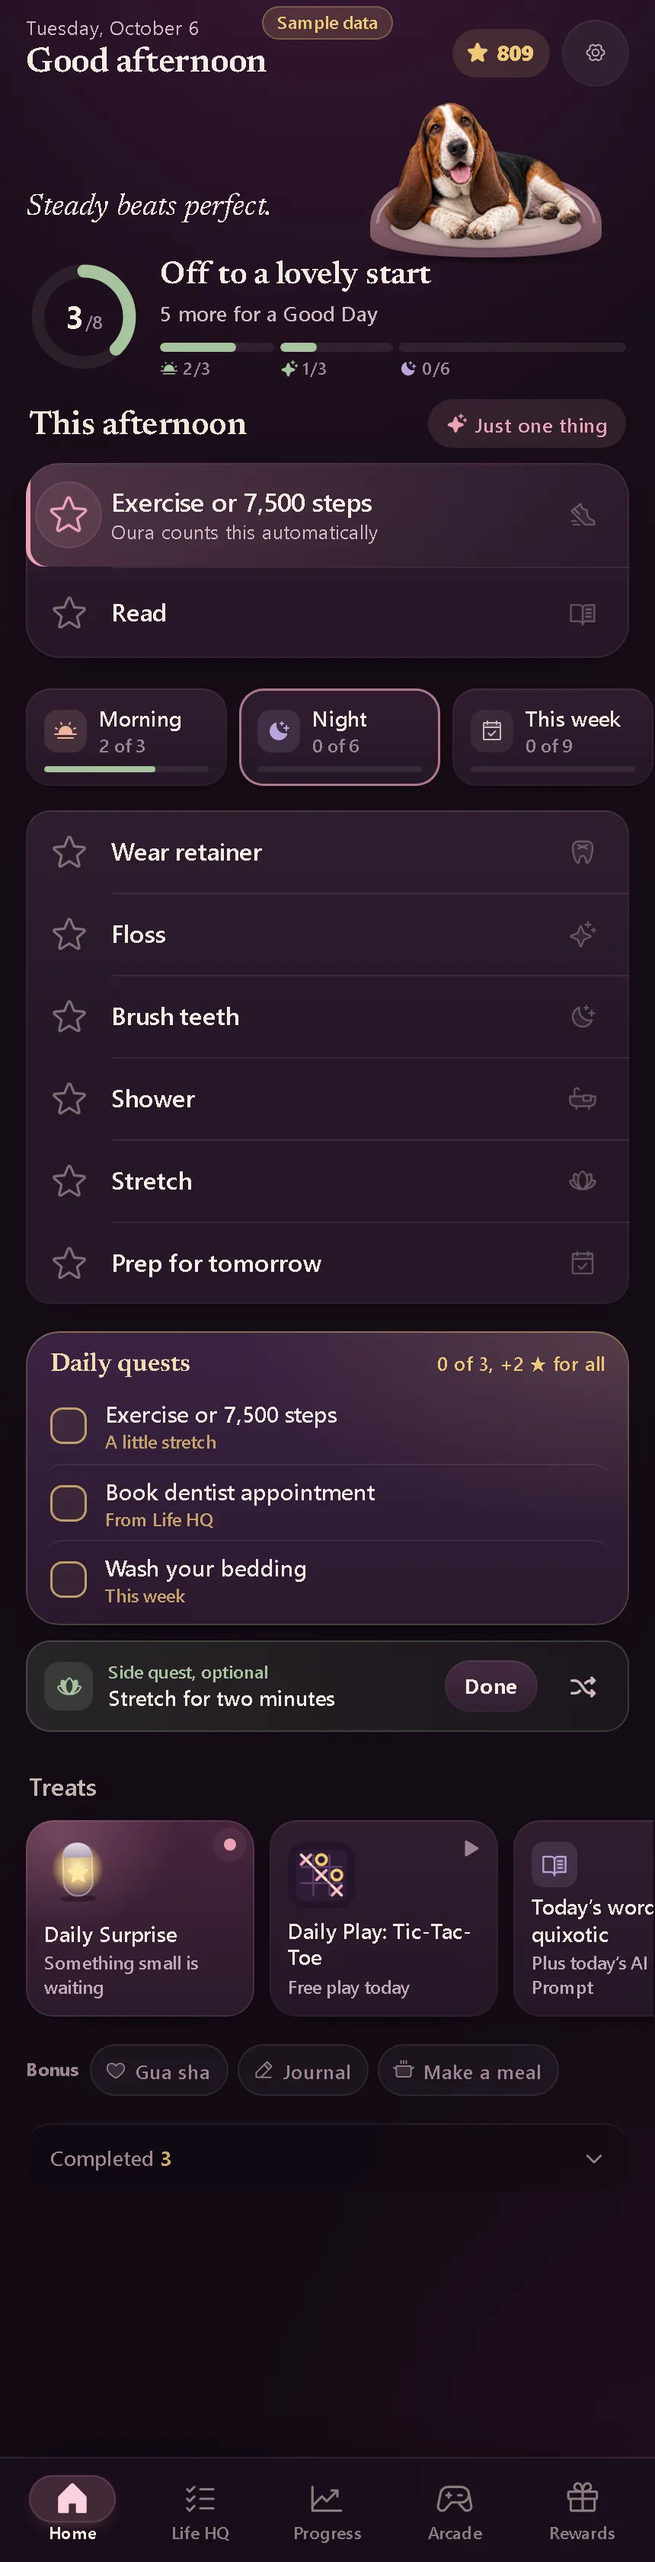
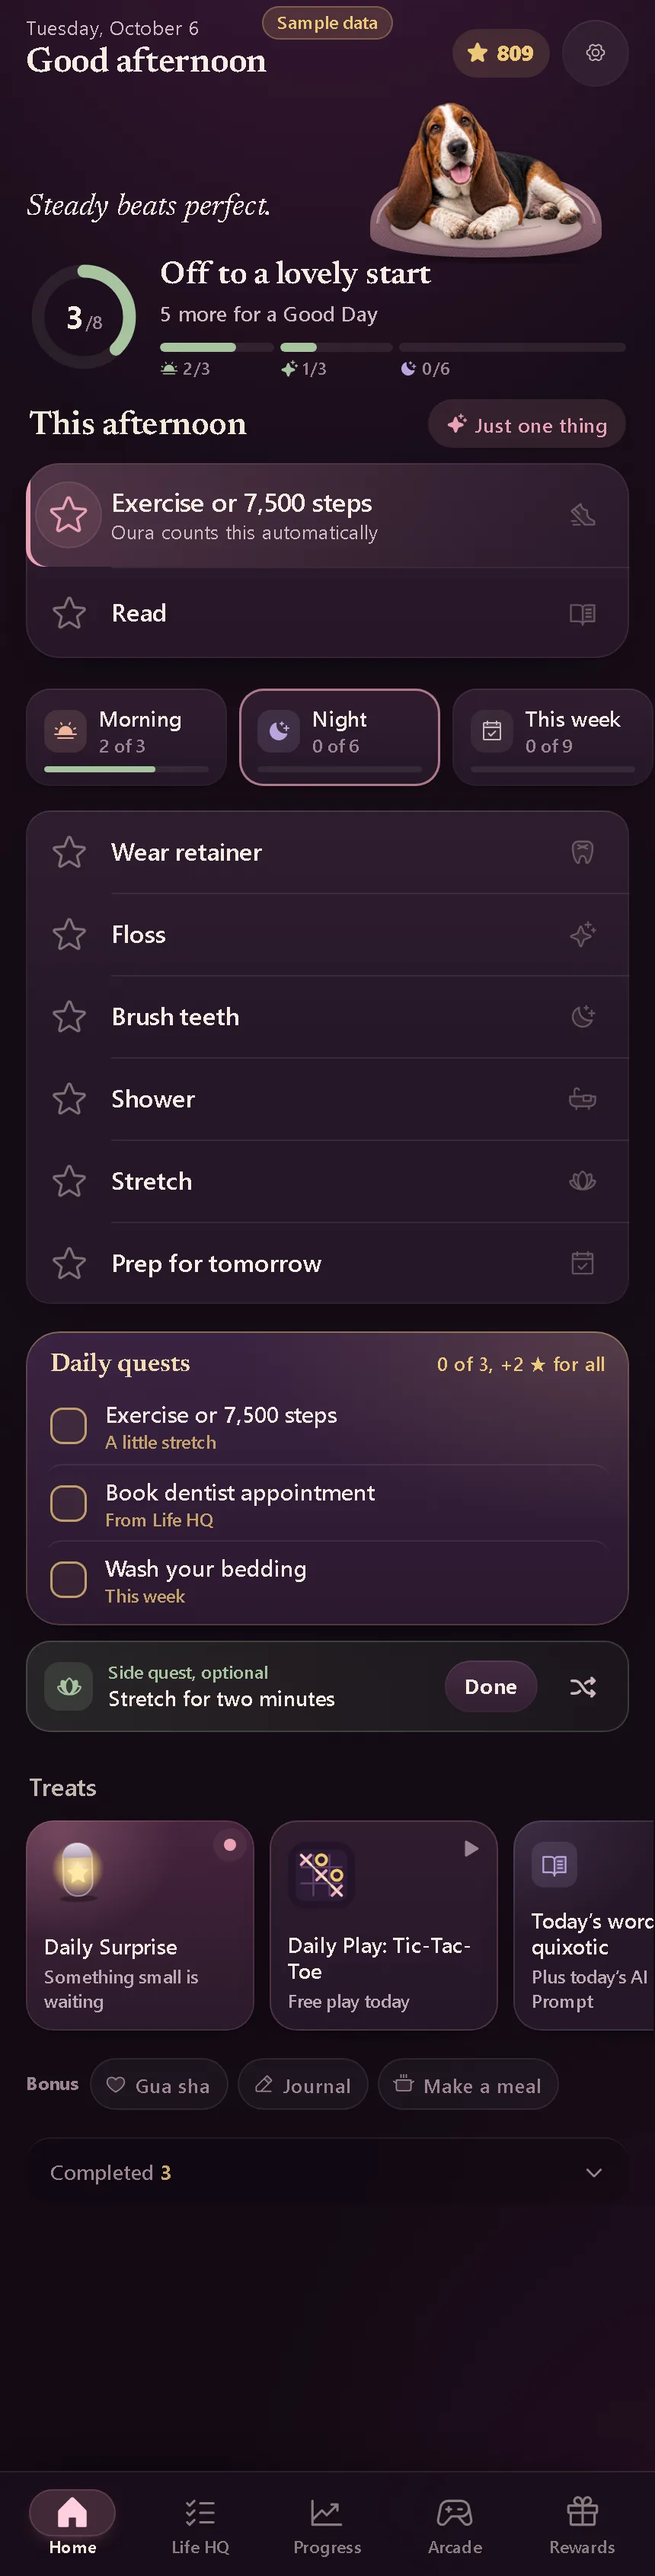
Demo snapshot from starcade@d25c363

diff --git a/review/index.html b/review/index.html
@@ -4,7 +4,7 @@ ul.grid{list-style:none;padding:0;display:grid;grid-template-columns:repeat(auto
 ul.grid img{display:block;width:100%;height:auto;aspect-ratio:430/932;object-fit:cover;object-position:top;border-radius:10px;background:#261727}
 figure{margin:0}figure img{display:block;max-width:430px;width:100%;height:auto;border-radius:12px;background:#261727}pre{white-space:pre-wrap;background:#261727;padding:12px 14px;border-radius:10px;color:#CFB9C1;font:14px/1.45 system-ui,sans-serif}
 nav.pn{display:flex;justify-content:space-between;gap:12px;margin:14px 0}dl{display:grid;grid-template-columns:max-content 1fr;gap:4px 14px;margin:0 0 16px;color:#CFB9C1}dt{color:#9C8492}</style></head><body><main><h1>Starcade demo · visual review</h1>
-<p class="meta">Read-only, pre-rendered snapshots of every major screen and state of Starcade, generated automatically from the live demo build with sample data only (no real user data). Viewport 430×932 (large iPhone), device scale 2. 65 screens and states. Generated 2026-10-06 19:02 UTC. This page needs no JavaScript. The interactive demo itself is at <a href="../">the demo home</a>.</p>
+<p class="meta">Read-only, pre-rendered snapshots of every major screen and state of Starcade, generated automatically from the live demo build with sample data only (no real user data). Viewport 430×932 (large iPhone), device scale 2. 65 screens and states. Generated 2026-10-06 19:11 UTC. This page needs no JavaScript. The interactive demo itself is at <a href="../">the demo home</a>.</p>
 <p>Overview of everything at once: <a href="img/00-contact-sheet.webp">contact sheet image</a>.</p>
 <p><img src="img/00-contact-sheet.webp" alt="Contact sheet: the first screen of all 65 Starcade screens and states side by side" style="max-width:100%;height:auto;border-radius:10px"></p>
 <h2>Home</h2><ul class="grid"><li><a href="01-home.html"><img src="img/01-home.webp" alt="Home · Today (afternoon, Dexter relaxed in his bed)" loading="lazy" width="430" height="932"><span>Home · Today (afternoon, Dexter relaxed in his bed)</span></a></li><li><a href="02-home-routine-pill-open.html"><img src="img/02-home-routine-pill-open.webp" alt="Home · a routine pill opened in place (Night)" loading="lazy" width="430" height="932"><span>Home · a routine pill opened in place (Night)</span></a></li><li><a href="03-home-week-pill-open.html"><img src="img/03-home-week-pill-open.webp" alt="Home · This week pill opened (weekly reset)" loading="lazy" width="430" height="932"><span>Home · This week pill opened (weekly reset)</span></a></li><li><a href="04-home-completed-expanded.html"><img src="img/04-home-completed-expanded.webp" alt="Home · Completed habits expanded" loading="lazy" width="430" height="932"><span>Home · Completed habits expanded</span></a></li><li><a href="05-home-quick-actions.html"><img src="img/05-home-quick-actions.webp" alt="Home · press and hold a habit: quick actions (skip, rest, partly, note)" loading="lazy" width="430" height="932"><span>Home · press and hold a habit: quick actions (skip, rest, partly, note)</span></a></li><li><a href="06-home-just-one-thing.html"><img src="img/06-home-just-one-thing.webp" alt="Home · Just one thing (pick for me)" loading="lazy" width="430" height="932"><span>Home · Just one thing (pick for me)</span></a></li><li><a href="07-daily-surprise-closed.html"><img src="img/07-daily-surprise-closed.webp" alt="Daily Surprise · the gift before opening" loading="lazy" width="430" height="932"><span>Daily Surprise · the gift before opening</span></a></li><li><a href="08-daily-surprise-opened.html"><img src="img/08-daily-surprise-opened.webp" alt="Daily Surprise · revealed" loading="lazy" width="430" height="932"><span>Daily Surprise · revealed</span></a></li></ul>

diff --git a/index.html b/index.html
@@ -7285,6 +7285,15 @@ button.lf-check{padding:0!important;width:24px!important;height:24px!important;m
 /* ===================== Pass 38 (Claude): Learn joins Brain's lavender; Rewards History is a record, not an action ===================== */
 .ln-word,.ln-ai{box-shadow:inset 0 0 0 1px rgb(var(--ds-lav-rgb) / .22),inset 0 1px 0 rgb(var(--ds-lav-rgb) / .2),var(--ds-card-shadow)!important}
 .ln-word{background:radial-gradient(110% 80% at 100% 0%,rgb(var(--ds-lav-rgb) / .14),transparent 60%),var(--ds-surface)!important}
+
+/* ===================== Pass 40 (Claude): treats read as objects, each in its own meaning ===================== */
+.tr-mini{display:grid;grid-template-columns:repeat(5,9px);gap:3px;padding:7px;border-radius:10px;background:rgb(0 0 0 / .22);box-shadow:inset 0 0 0 1px rgb(var(--ds-gold-rgb) / .14);width:max-content}
+.tr-mini i{width:9px;height:9px;border-radius:2.5px;background:rgb(var(--ds-text-rgb) / .1)}
+.tr-mini i.on,.tr-mini i.free{background:var(--ds-gold)}
+.tr-mini i.gold{box-shadow:0 0 0 1.5px var(--ds-gold)}
+.td-treat.tr-bingo{background:radial-gradient(110% 90% at 100% 0%,rgb(var(--ds-gold-rgb) / .14),transparent 60%),linear-gradient(180deg,#3A2341,#2A182E)!important;box-shadow:inset 0 1px 0 rgb(var(--ds-gold-rgb) / .26),inset 0 0 0 1px rgb(var(--ds-gold-rgb) / .18),var(--ds-card-shadow)!important}
+.td-rail .td-foryou>.tb-row:has(.ds-glyph-lav){background:radial-gradient(110% 90% at 0% 0%,rgb(var(--ds-lav-rgb) / .16),transparent 60%),var(--ds-surface)!important;box-shadow:inset 0 0 0 1px rgb(var(--ds-lav-rgb) / .16),var(--ds-card-shadow)!important}
+.td-rail .td-foryou>.tb-row:has(.td-cover){box-shadow:inset 0 0 0 1px rgb(var(--ds-rose-rgb) / .2),var(--ds-card-shadow)!important}
 </style>
 <script id="starcade-screens">
 /* Starcade screens, pass 10: Today and Arcade (Play + Learn), built from the starcade-ds components.
@@ -10700,7 +10709,9 @@ button.lf-check{padding:0!important;width:24px!important;height:24px!important;m
     const extra = [];
     try { // this week's Bingo: how close the next reward is
       const B = __starcadeV7.bingoTest.state(), rec = B.rec, n = B.lines.length;
-      extra.push(`<button type="button" class="td-treat tr-bingo" onclick="v7OpenBingo()"><span class="tr-ic">${ic('grid-nine-fill')}</span><b>Weekly Bingo</b><small>${B.count} of 25${n ? `, ${n} line${n === 1 ? '' : 's'}` : ''}</small></button>`);
+      // pass 40: the treat shows this week's actual board (done squares gold, the gold square ringed), not a generic icon
+      const mini = `<span class="tr-mini" aria-hidden="true">${B.marks.map((m, i) => `<i class="${i === 12 ? 'free' : m.done ? 'on' : ''}${i === rec.gold ? ' gold' : ''}"></i>`).join('')}</span>`;
+      extra.push(`<button type="button" class="td-treat tr-bingo" onclick="v7OpenBingo()">${mini}<b>Weekly Bingo</b><small>${B.count} of 25${n ? `, ${n} line${n === 1 ? '' : 's'}` : ''}</small></button>`);
     } catch (e) {}
     if (SC2.tokensOn()) { const t = SC2.tokenBalance(); extra.push(`<button type="button" class="td-treat tr-tokens" onclick="starcadeNavigate('boost')"><span class="tr-ic">${ic('ticket-fill')}</span><b>${t} Arcade token${t === 1 ? '' : 's'}</b><small>${esc(SC2.nextTokenHint().replace(/\.$/, ''))}</small></button>`); }
     const inner = fy.replace(/<div class="ds-section td-sec">[\s\S]*?<\/div>/, ''); // the old header (title + Inbox link) is replaced by the rail's own

diff --git a/review/02-home-routine-pill-open.html b/review/02-home-routine-pill-open.html
@@ -4,9 +4,9 @@ ul.grid{list-style:none;padding:0;display:grid;grid-template-columns:repeat(auto
 ul.grid img{display:block;width:100%;height:auto;aspect-ratio:430/932;object-fit:cover;object-position:top;border-radius:10px;background:#261727}
 figure{margin:0}figure img{display:block;max-width:430px;width:100%;height:auto;border-radius:12px;background:#261727}pre{white-space:pre-wrap;background:#261727;padding:12px 14px;border-radius:10px;color:#CFB9C1;font:14px/1.45 system-ui,sans-serif}
 nav.pn{display:flex;justify-content:space-between;gap:12px;margin:14px 0}dl{display:grid;grid-template-columns:max-content 1fr;gap:4px 14px;margin:0 0 16px;color:#CFB9C1}dt{color:#9C8492}</style></head><body><main><p><a href="index.html">← All screens</a></p><h1>Home · a routine pill opened in place (Night)</h1>
-<dl><dt>Area</dt><dd>Home</dd><dt>Screen 2 of 65</dt><dd>home-routine-pill-open</dd><dt>Capture</dt><dd>full scrolling page (430×1682), demo time 15:00, sample data</dd><dt>Image</dt><dd><a href="img/02-home-routine-pill-open.webp">img/02-home-routine-pill-open.webp</a></dd></dl>
+<dl><dt>Area</dt><dd>Home</dd><dt>Screen 2 of 65</dt><dd>home-routine-pill-open</dd><dt>Capture</dt><dd>full scrolling page (430×1691), demo time 15:00, sample data</dd><dt>Image</dt><dd><a href="img/02-home-routine-pill-open.webp">img/02-home-routine-pill-open.webp</a></dd></dl>
 <nav class="pn"><a href="01-home.html">← Home · Today (afternoon, Dexter relaxed in his bed)</a><a href="03-home-week-pill-open.html">Home · This week pill opened (weekly reset) →</a></nav>
-<figure><img src="img/02-home-routine-pill-open.webp" alt="Screenshot: Home · a routine pill opened in place (Night)" width="430" height="1682"><figcaption class="meta">Home · a routine pill opened in place (Night)</figcaption></figure>
+<figure><img src="img/02-home-routine-pill-open.webp" alt="Screenshot: Home · a routine pill opened in place (Night)" width="430" height="1691"><figcaption class="meta">Home · a routine pill opened in place (Night)</figcaption></figure>
 <h2>Text on this screen</h2><pre>Good afternoon
 Steady beats perfect.
 

diff --git a/review/04-home-completed-expanded.html b/review/04-home-completed-expanded.html
@@ -4,9 +4,9 @@ ul.grid{list-style:none;padding:0;display:grid;grid-template-columns:repeat(auto
 ul.grid img{display:block;width:100%;height:auto;aspect-ratio:430/932;object-fit:cover;object-position:top;border-radius:10px;background:#261727}
 figure{margin:0}figure img{display:block;max-width:430px;width:100%;height:auto;border-radius:12px;background:#261727}pre{white-space:pre-wrap;background:#261727;padding:12px 14px;border-radius:10px;color:#CFB9C1;font:14px/1.45 system-ui,sans-serif}
 nav.pn{display:flex;justify-content:space-between;gap:12px;margin:14px 0}dl{display:grid;grid-template-columns:max-content 1fr;gap:4px 14px;margin:0 0 16px;color:#CFB9C1}dt{color:#9C8492}</style></head><body><main><p><a href="index.html">← All screens</a></p><h1>Home · Completed habits expanded</h1>
-<dl><dt>Area</dt><dd>Home</dd><dt>Screen 4 of 65</dt><dd>home-completed-expanded</dd><dt>Capture</dt><dd>full scrolling page (430×1467), demo time 15:00, sample data</dd><dt>Image</dt><dd><a href="img/04-home-completed-expanded.webp">img/04-home-completed-expanded.webp</a></dd></dl>
+<dl><dt>Area</dt><dd>Home</dd><dt>Screen 4 of 65</dt><dd>home-completed-expanded</dd><dt>Capture</dt><dd>full scrolling page (430×1476), demo time 15:00, sample data</dd><dt>Image</dt><dd><a href="img/04-home-completed-expanded.webp">img/04-home-completed-expanded.webp</a></dd></dl>
 <nav class="pn"><a href="03-home-week-pill-open.html">← Home · This week pill opened (weekly reset)</a><a href="05-home-quick-actions.html">Home · press and hold a habit: quick actions (skip, rest, partly, note) →</a></nav>
-<figure><img src="img/04-home-completed-expanded.webp" alt="Screenshot: Home · Completed habits expanded" width="430" height="1467"><figcaption class="meta">Home · Completed habits expanded</figcaption></figure>
+<figure><img src="img/04-home-completed-expanded.webp" alt="Screenshot: Home · Completed habits expanded" width="430" height="1476"><figcaption class="meta">Home · Completed habits expanded</figcaption></figure>
 <h2>Text on this screen</h2><pre>Good afternoon
 Steady beats perfect.
 

diff --git a/review/03-home-week-pill-open.html b/review/03-home-week-pill-open.html
@@ -4,9 +4,9 @@ ul.grid{list-style:none;padding:0;display:grid;grid-template-columns:repeat(auto
 ul.grid img{display:block;width:100%;height:auto;aspect-ratio:430/932;object-fit:cover;object-position:top;border-radius:10px;background:#261727}
 figure{margin:0}figure img{display:block;max-width:430px;width:100%;height:auto;border-radius:12px;background:#261727}pre{white-space:pre-wrap;background:#261727;padding:12px 14px;border-radius:10px;color:#CFB9C1;font:14px/1.45 system-ui,sans-serif}
 nav.pn{display:flex;justify-content:space-between;gap:12px;margin:14px 0}dl{display:grid;grid-template-columns:max-content 1fr;gap:4px 14px;margin:0 0 16px;color:#CFB9C1}dt{color:#9C8492}</style></head><body><main><p><a href="index.html">← All screens</a></p><h1>Home · This week pill opened (weekly reset)</h1>
-<dl><dt>Area</dt><dd>Home</dd><dt>Screen 3 of 65</dt><dd>home-week-pill-open</dd><dt>Capture</dt><dd>full scrolling page (430×1844), demo time 15:00, sample data</dd><dt>Image</dt><dd><a href="img/03-home-week-pill-open.webp">img/03-home-week-pill-open.webp</a></dd></dl>
+<dl><dt>Area</dt><dd>Home</dd><dt>Screen 3 of 65</dt><dd>home-week-pill-open</dd><dt>Capture</dt><dd>full scrolling page (430×1853), demo time 15:00, sample data</dd><dt>Image</dt><dd><a href="img/03-home-week-pill-open.webp">img/03-home-week-pill-open.webp</a></dd></dl>
 <nav class="pn"><a href="02-home-routine-pill-open.html">← Home · a routine pill opened in place (Night)</a><a href="04-home-completed-expanded.html">Home · Completed habits expanded →</a></nav>
-<figure><img src="img/03-home-week-pill-open.webp" alt="Screenshot: Home · This week pill opened (weekly reset)" width="430" height="1844"><figcaption class="meta">Home · This week pill opened (weekly reset)</figcaption></figure>
+<figure><img src="img/03-home-week-pill-open.webp" alt="Screenshot: Home · This week pill opened (weekly reset)" width="430" height="1853"><figcaption class="meta">Home · This week pill opened (weekly reset)</figcaption></figure>
 <h2>Text on this screen</h2><pre>Good afternoon
 Steady beats perfect.
 

diff --git a/review/15-home-good-day.html b/review/15-home-good-day.html
@@ -4,9 +4,9 @@ ul.grid{list-style:none;padding:0;display:grid;grid-template-columns:repeat(auto
 ul.grid img{display:block;width:100%;height:auto;aspect-ratio:430/932;object-fit:cover;object-position:top;border-radius:10px;background:#261727}
 figure{margin:0}figure img{display:block;max-width:430px;width:100%;height:auto;border-radius:12px;background:#261727}pre{white-space:pre-wrap;background:#261727;padding:12px 14px;border-radius:10px;color:#CFB9C1;font:14px/1.45 system-ui,sans-serif}
 nav.pn{display:flex;justify-content:space-between;gap:12px;margin:14px 0}dl{display:grid;grid-template-columns:max-content 1fr;gap:4px 14px;margin:0 0 16px;color:#CFB9C1}dt{color:#9C8492}</style></head><body><main><p><a href="index.html">← All screens</a></p><h1>Home · Good Day achieved (starlit card)</h1>
-<dl><dt>Area</dt><dd>Good Day</dd><dt>Screen 15 of 65</dt><dd>home-good-day</dd><dt>Capture</dt><dd>full scrolling page (430×1280), demo time 16:00, sample data</dd><dt>Image</dt><dd><a href="img/15-home-good-day.webp">img/15-home-good-day.webp</a></dd></dl>
+<dl><dt>Area</dt><dd>Good Day</dd><dt>Screen 15 of 65</dt><dd>home-good-day</dd><dt>Capture</dt><dd>full scrolling page (430×1289), demo time 16:00, sample data</dd><dt>Image</dt><dd><a href="img/15-home-good-day.webp">img/15-home-good-day.webp</a></dd></dl>
 <nav class="pn"><a href="14-good-day-celebration.html">← Good Day · the celebration moment as the 8th core habit is checked</a><a href="16-progress-goals-empty.html">Progress · Goals (empty state) →</a></nav>
-<figure><img src="img/15-home-good-day.webp" alt="Screenshot: Home · Good Day achieved (starlit card)" width="430" height="1280"><figcaption class="meta">Home · Good Day achieved (starlit card)</figcaption></figure>
+<figure><img src="img/15-home-good-day.webp" alt="Screenshot: Home · Good Day achieved (starlit card)" width="430" height="1289"><figcaption class="meta">Home · Good Day achieved (starlit card)</figcaption></figure>
 <h2>Text on this screen</h2><pre>Good afternoon
 Steady beats perfect.
 

diff --git a/review/01-home.html b/review/01-home.html
@@ -4,9 +4,9 @@ ul.grid{list-style:none;padding:0;display:grid;grid-template-columns:repeat(auto
 ul.grid img{display:block;width:100%;height:auto;aspect-ratio:430/932;object-fit:cover;object-position:top;border-radius:10px;background:#261727}
 figure{margin:0}figure img{display:block;max-width:430px;width:100%;height:auto;border-radius:12px;background:#261727}pre{white-space:pre-wrap;background:#261727;padding:12px 14px;border-radius:10px;color:#CFB9C1;font:14px/1.45 system-ui,sans-serif}
 nav.pn{display:flex;justify-content:space-between;gap:12px;margin:14px 0}dl{display:grid;grid-template-columns:max-content 1fr;gap:4px 14px;margin:0 0 16px;color:#CFB9C1}dt{color:#9C8492}</style></head><body><main><p><a href="index.html">← All screens</a></p><h1>Home · Today (afternoon, Dexter relaxed in his bed)</h1>
-<dl><dt>Area</dt><dd>Home</dd><dt>Screen 1 of 65</dt><dd>home</dd><dt>Capture</dt><dd>full scrolling page (430×1340), demo time 15:00, sample data</dd><dt>Image</dt><dd><a href="img/01-home.webp">img/01-home.webp</a></dd></dl>
+<dl><dt>Area</dt><dd>Home</dd><dt>Screen 1 of 65</dt><dd>home</dd><dt>Capture</dt><dd>full scrolling page (430×1349), demo time 15:00, sample data</dd><dt>Image</dt><dd><a href="img/01-home.webp">img/01-home.webp</a></dd></dl>
 <nav class="pn"><span></span><a href="02-home-routine-pill-open.html">Home · a routine pill opened in place (Night) →</a></nav>
-<figure><img src="img/01-home.webp" alt="Screenshot: Home · Today (afternoon, Dexter relaxed in his bed)" width="430" height="1340"><figcaption class="meta">Home · Today (afternoon, Dexter relaxed in his bed)</figcaption></figure>
+<figure><img src="img/01-home.webp" alt="Screenshot: Home · Today (afternoon, Dexter relaxed in his bed)" width="430" height="1349"><figcaption class="meta">Home · Today (afternoon, Dexter relaxed in his bed)</figcaption></figure>
 <h2>Text on this screen</h2><pre>Good afternoon
 Steady beats perfect.
 
